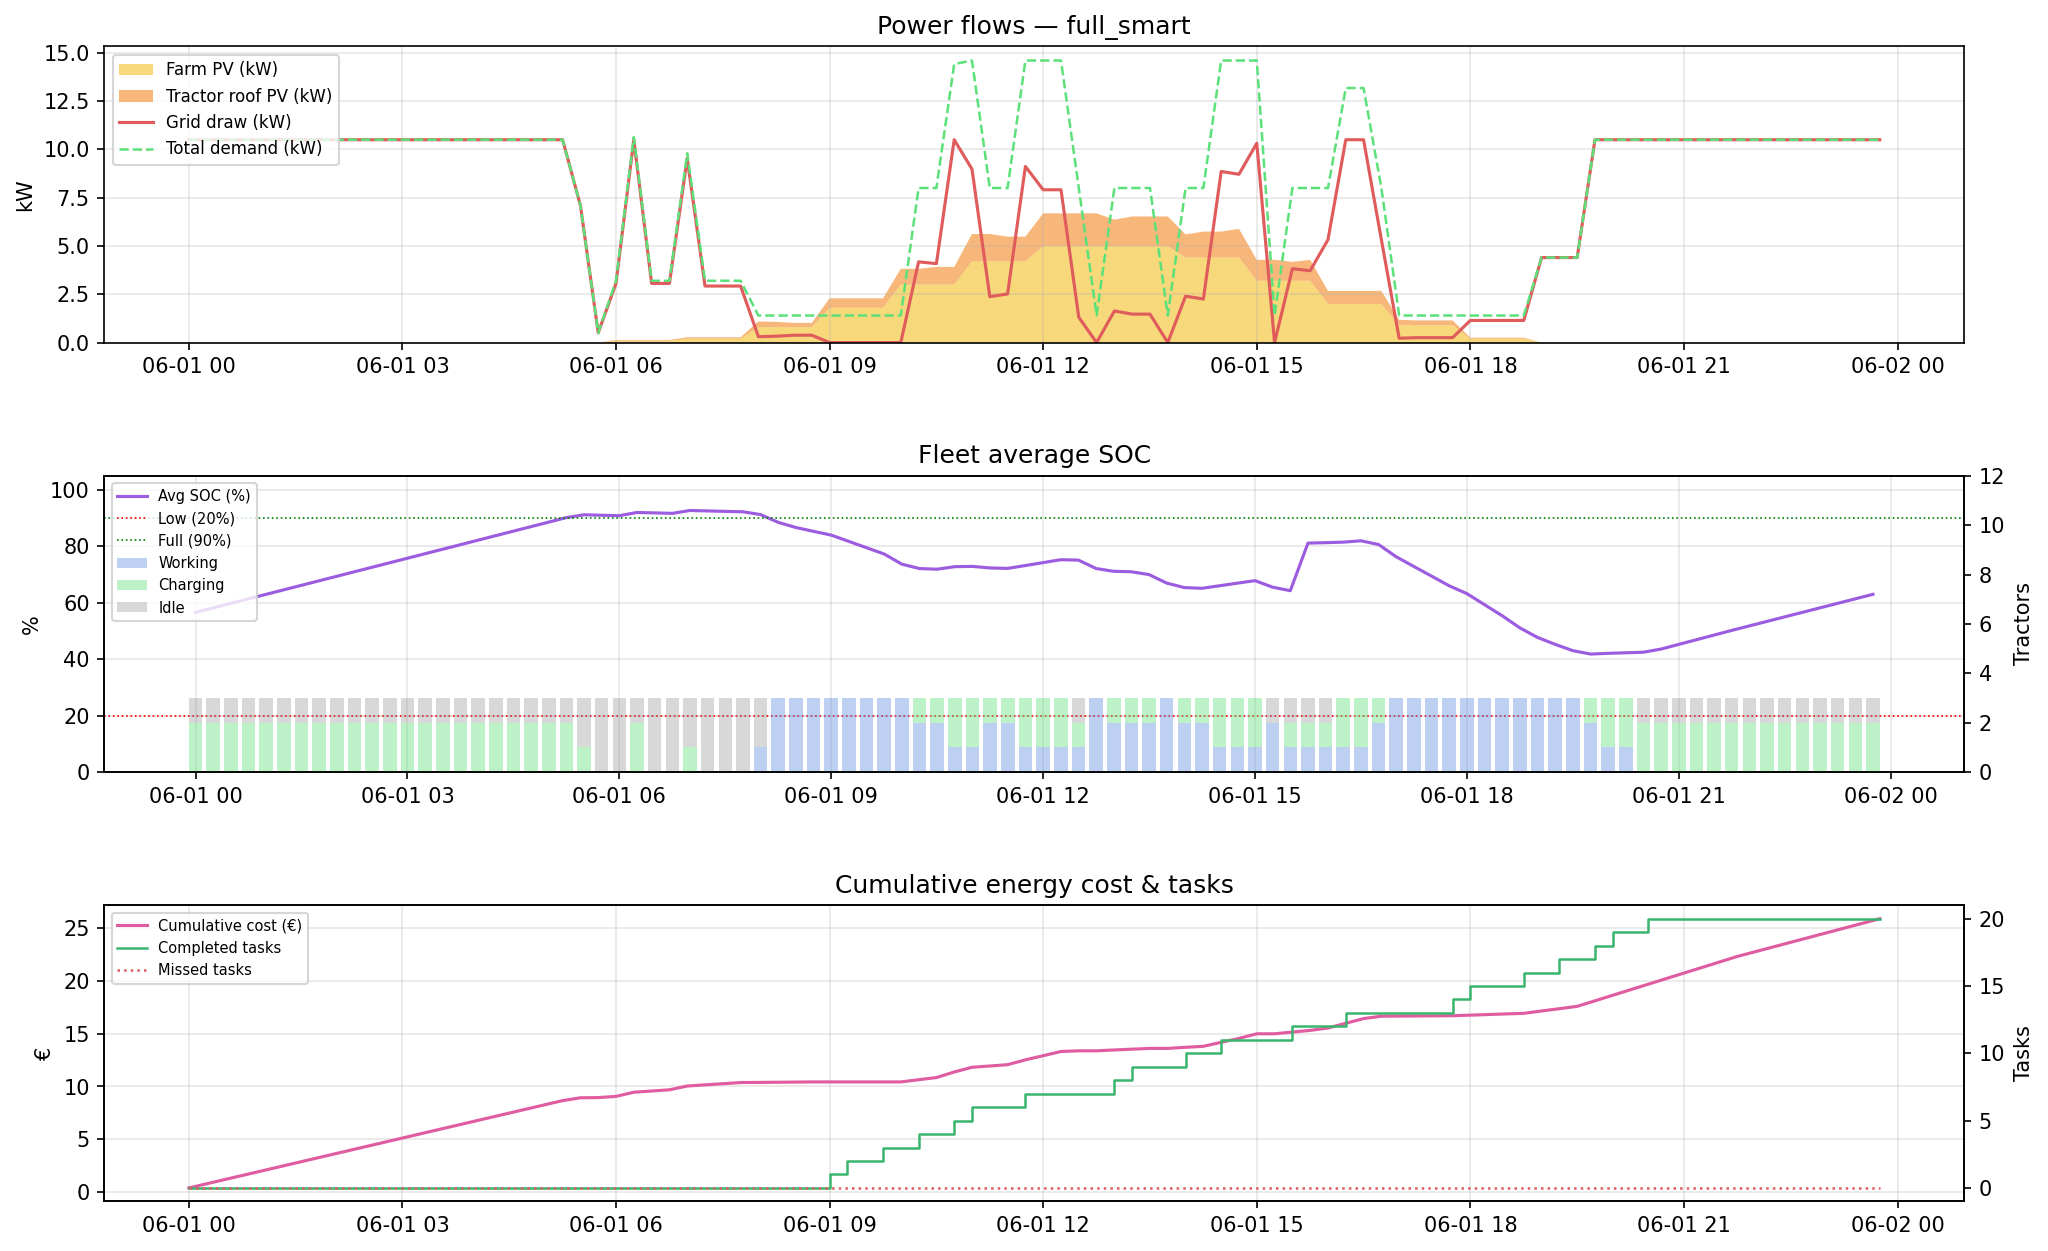
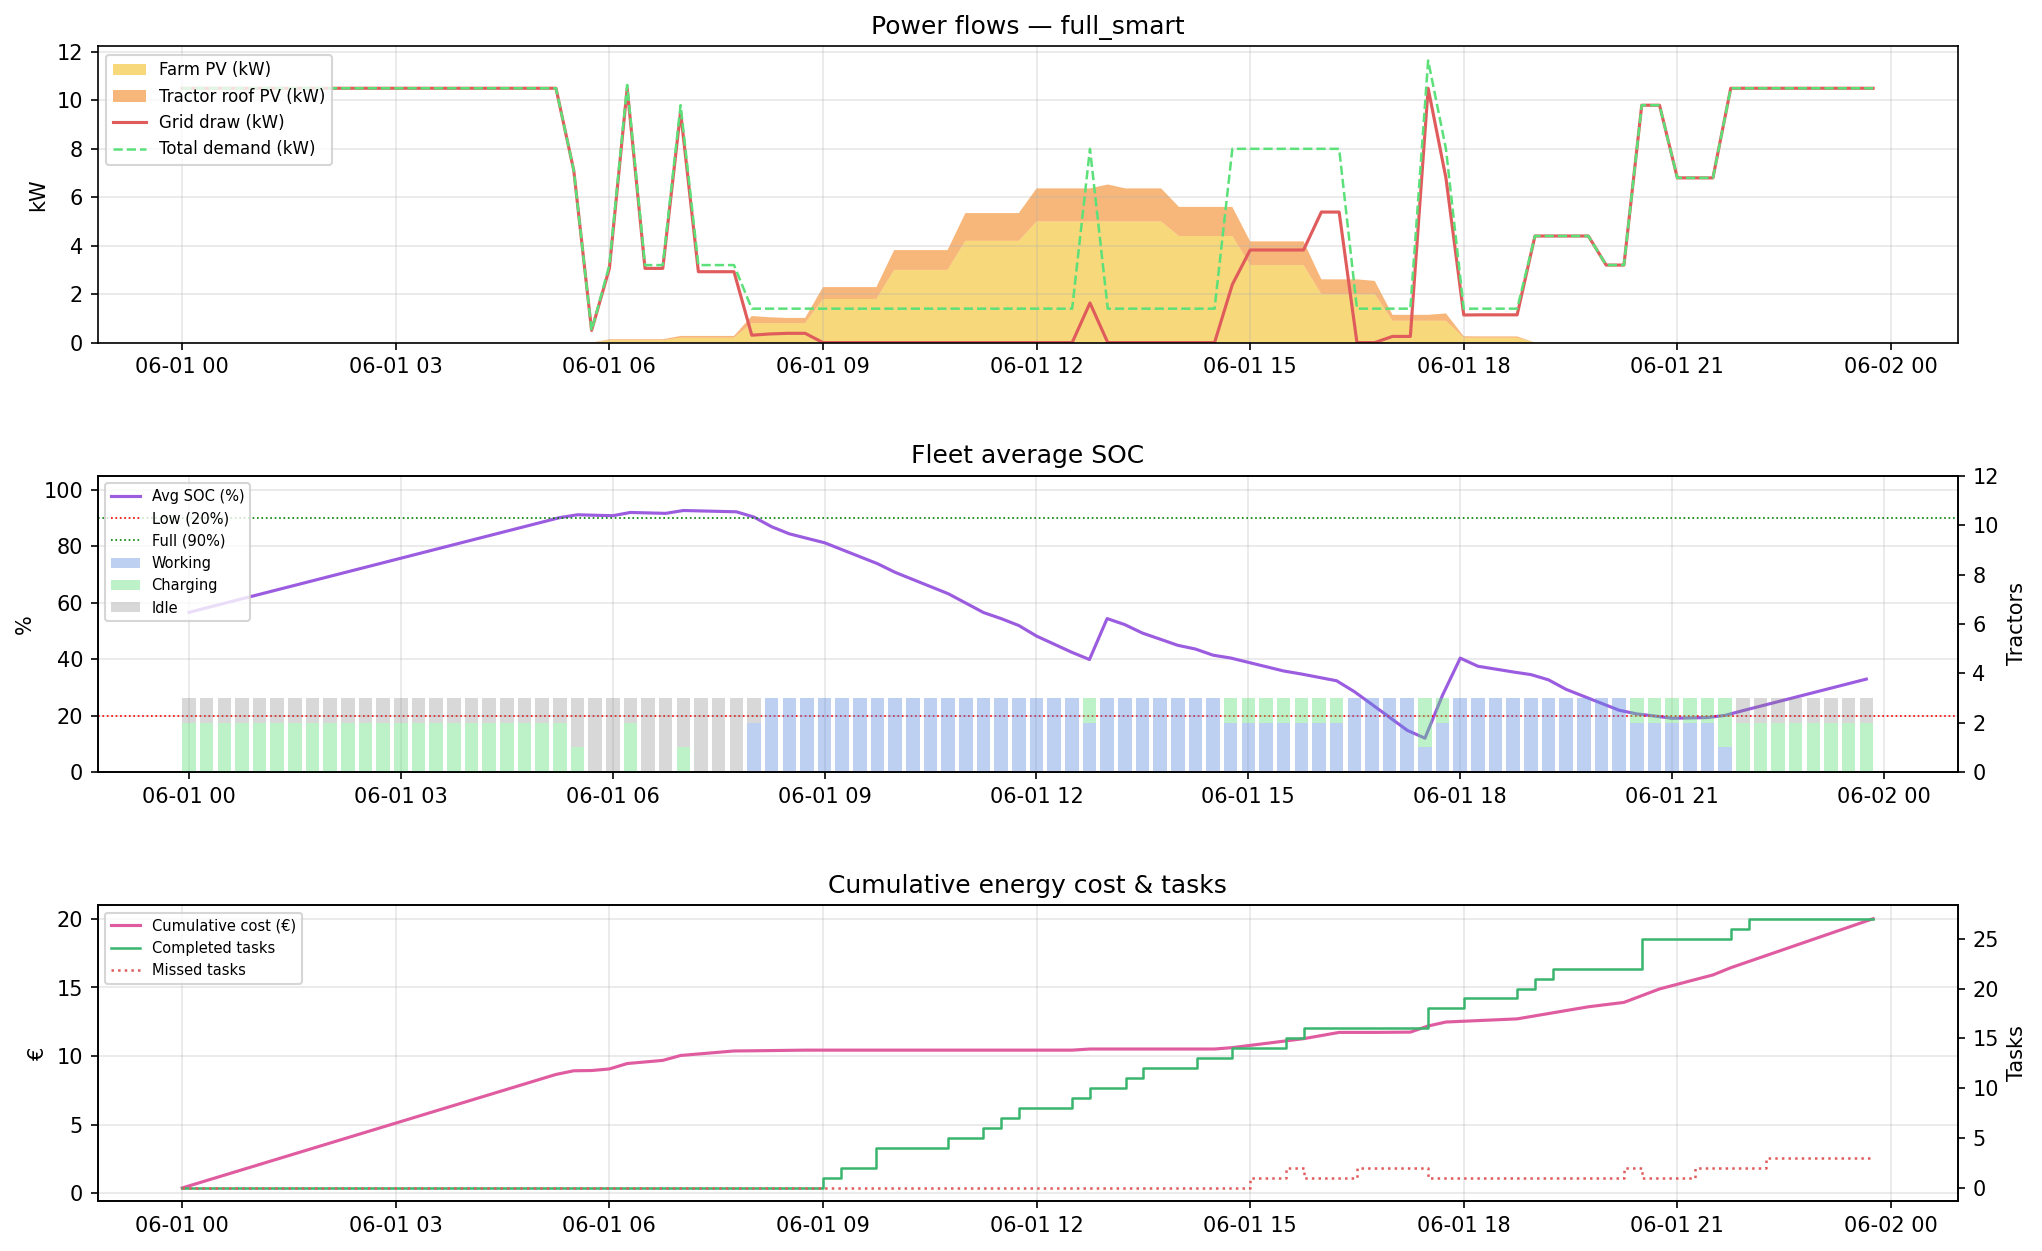
README update

diff --git a/README.md b/README.md
@@ -62,6 +62,10 @@ The power flow of the `full_smart` scenario:
 
 [![Power profile](./images/full_smart_detail.png)](./images/full_smart_detail.png)
 
+Scenario KPI comparison:
+
+[![KPI Comparison](./images/kpi_comparison.png)](./kpi_comparison.png)
+
 ### Option B — Web Dashboard (recommended for demos)
 
 ```bash
@@ -374,15 +378,6 @@ pip install -r requirements.txt
 ```
 
 No cloud services or API keys required (except the optional `openmeteo` backend for live weather forecasts).
-
-Add these to `.gitignore` to keep local files out of the repository:
-
-```
-config.local.yaml
-models/
-pv_weather_cache.json
-outputs/
-```
 
 ---
 
